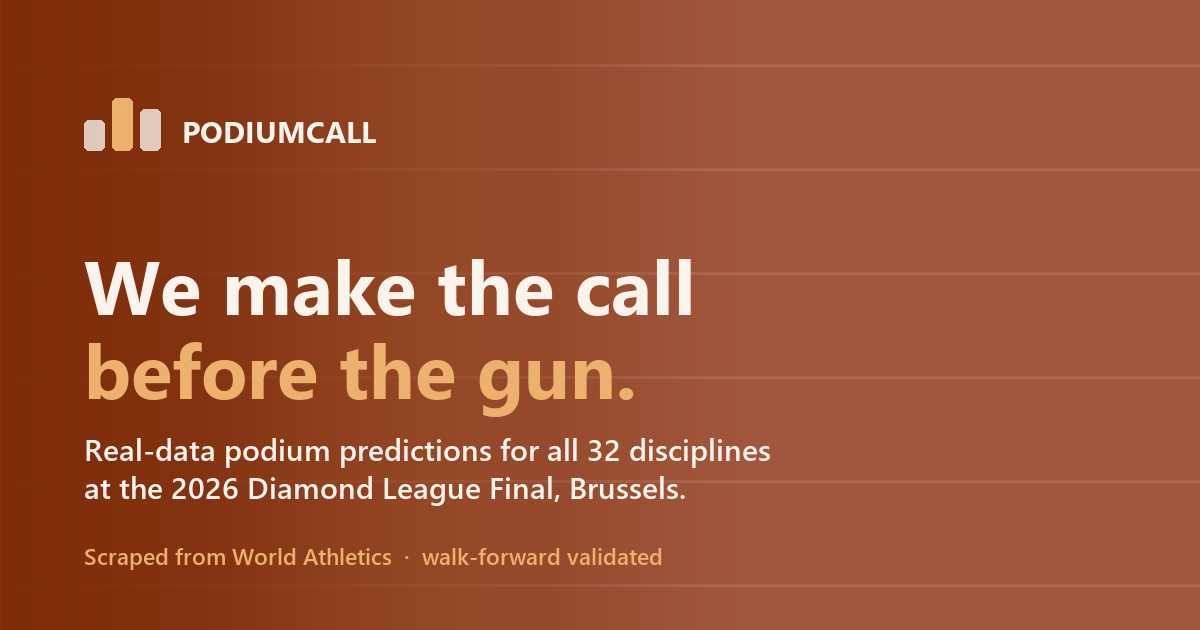
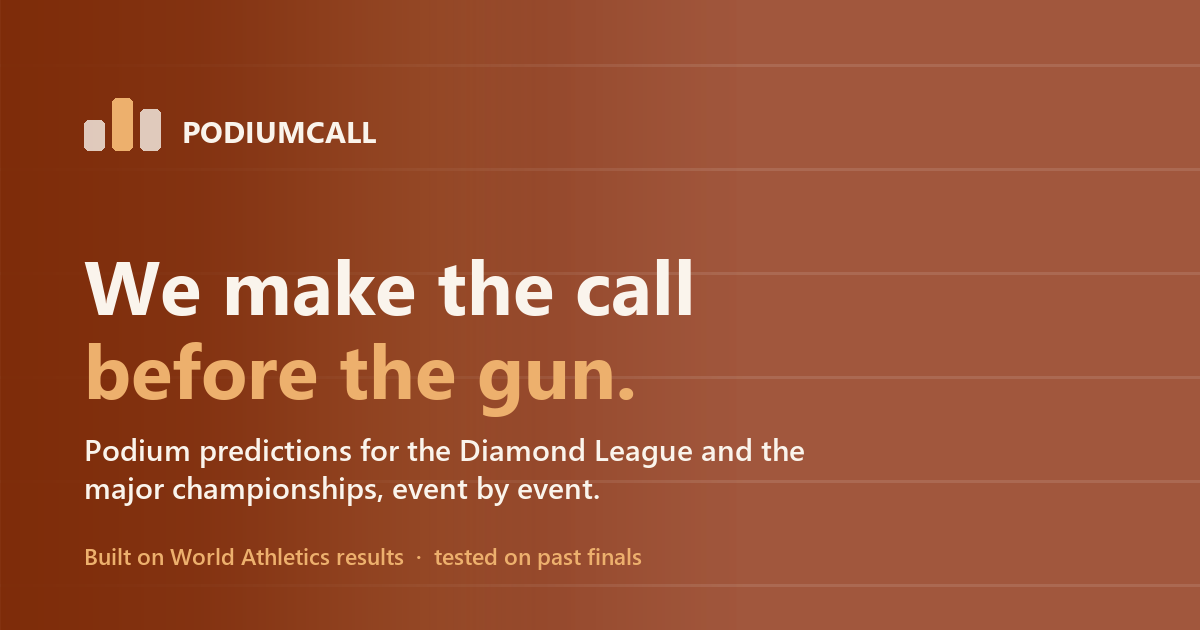
Give every page a canonical link and og:url, and make the share card, manifest and default description about the site
pageHead now takes the page's path and builds both tags from VITE_SITE_URL, which the live site already sets to www.podiumcall.cc. The tags had waited on a domain and were never added once there was one, so Google kept the vercel.app address it indexed first. The share card, the manifest, the root title and the structured data still described the 2026 Diamond League Final in Brussels; they now describe the site, and og:image is absolute.

Changed region(s): [[0.0617, 0.6937, 0.6783, 0.8143], [0.0617, 0.8746, 0.555, 0.9048]]

diff --git a/src/routes/__root.tsx b/src/routes/__root.tsx
@@ -12,7 +12,7 @@ import { useEffect, type ReactNode } from "react";
 import appCss from "../styles.css?url";
 import { JsonLd } from "@/components/dl/json-ld";
 import { Analytics } from "@vercel/analytics/react";
-import { websiteSchema } from "@/lib/seo";
+import { absoluteUrl, websiteSchema } from "@/lib/seo";
 import { reportLovableError } from "../lib/lovable-error-reporting";
 import { I18nProvider, useT } from "@/lib/i18n";
 
@@ -119,28 +119,30 @@ export const Route = createRootRouteWithContext<{ queryClient: QueryClient }>()(
         ? [{ name: "google-site-verification", content: GOOGLE_SITE_VERIFICATION }]
         : []),
       { name: "viewport", content: "width=device-width, initial-scale=1" },
-      { title: "PodiumCall — 2026 Diamond League Predictions" },
+      { title: "PodiumCall · Athletics podium predictions" },
       {
         name: "description",
         content:
-          "Real-data predictions for the 2026 Wanda Diamond League Final, trained on results scraped directly from World Athletics.",
+          "Podium predictions for the Diamond League and the major athletics championships, event by event, built on World Athletics results.",
       },
-      { property: "og:title", content: "PodiumCall — 2026 Diamond League Predictions" },
+      { property: "og:title", content: "PodiumCall · Athletics podium predictions" },
       {
         property: "og:description",
         content:
-          "Real-data predictions for the 2026 Wanda Diamond League Final, trained on results scraped directly from World Athletics.",
+          "Podium predictions for the Diamond League and the major athletics championships, event by event, built on World Athletics results.",
       },
       { property: "og:type", content: "website" },
       { name: "twitter:card", content: "summary_large_image" },
       // twitter:card promised a large image and none was ever set, so every
       // share rendered blank. Drawn from the app's own palette and lane
       // motif (scripts/make-og.py) rather than a stock graphic.
-      { property: "og:image", content: "/og.png" },
+      // Absolute when the origin is known: Facebook, LinkedIn and X read
+      // og:image as a full URL and can drop a relative one.
+      { property: "og:image", content: absoluteUrl("/og.png") ?? "/og.png" },
       { property: "og:image:width", content: "1200" },
       { property: "og:image:height", content: "630" },
-      { property: "og:image:alt", content: "PodiumCall — We make the call before the gun." },
-      { name: "twitter:image", content: "/og.png" },
+      { property: "og:image:alt", content: "PodiumCall: we make the call before the gun." },
+      { name: "twitter:image", content: absoluteUrl("/og.png") ?? "/og.png" },
       { property: "og:site_name", content: "PodiumCall" },
       // Colours the browser chrome (Android address bar, iOS PWA) to the
       // logo's dark ground rather than a default white.

diff --git a/src/lib/seo.ts b/src/lib/seo.ts
@@ -64,16 +64,34 @@ export const SUFFIX = "PodiumCall";
 /** One place that builds the tags, so title and og:title cannot drift apart
  * — the failure mode where a page looks right in a tab and wrong when
  * shared. */
-export function pageHead(title: string, description: string) {
+export function pageHead(title: string, description: string, path?: string) {
   const full = `${title} · ${SUFFIX}`;
+  const url = path === undefined ? undefined : absoluteUrl(path);
   return {
     meta: [
       { title: full },
       { name: "description", content: description },
       { property: "og:title", content: full },
       { property: "og:description", content: description },
+      ...(url ? [{ property: "og:url", content: url }] : []),
     ],
+    // The canonical link and og:url waited on a domain (see below) and were
+    // never added once there was one, so Google kept the vercel.app address it
+    // indexed first (found 2026-09-15). `path` carries no query string:
+    // /field?disc=men_HT is the /field page, which is what the sitemap lists.
+    links: url ? [{ rel: "canonical", href: url }] : [],
   };
+}
+
+/** One path segment encoded the way scripts/make-sitemap.py encodes it
+ * (Python's quote with safe=""), so a canonical link and the sitemap name an
+ * athlete page with the same bytes. encodeURIComponent alone leaves ! ' ( ) *
+ * as they are, and "Ja'Kobe THARP" would differ. */
+export function pathSegment(value: string): string {
+  return encodeURIComponent(value).replace(
+    /[!'()*]/g,
+    (c) => `%${c.charCodeAt(0).toString(16).toUpperCase()}`,
+  );
 }
 
 /* -- Structured data (JSON-LD) -------------------------------------------
@@ -116,7 +134,7 @@ export function websiteSchema(): JsonLdGraph {
     "@type": "WebSite",
     name: SUFFIX,
     description:
-      "Real-data podium predictions for the 2026 Wanda Diamond League Final, trained on results scraped from World Athletics.",
+      "Podium predictions for the Diamond League and the major athletics championships, event by event, built on World Athletics results.",
     inLanguage: "en",
     url: absoluteUrl("/"),
   };

diff --git a/src/routes/athlete.$discKey.$name.tsx b/src/routes/athlete.$discKey.$name.tsx
@@ -1,5 +1,5 @@
 import type { ReactNode } from "react";
-import { disciplineLabel, pageHead, titleName } from "@/lib/seo";
+import { disciplineLabel, pageHead, pathSegment, titleName } from "@/lib/seo";
 import { usePageTitle } from "@/lib/use-page-title";
 import { createFileRoute, Link, useCanGoBack, useRouter } from "@tanstack/react-router";
 import { Shell, Panel, PanelSkeleton, ErrorPanel, WatchBadge } from "@/components/dl/shell";
@@ -402,11 +402,13 @@ export const Route = createFileRoute("/athlete/$discKey/$name")({
   // caps convention still applies, so it is title-cased for the tab and the
   // search result the same way the dossier headline is.
   head: ({ params }) => {
-    const name = titleName(decodeURIComponent(params.name));
+    const raw = decodeURIComponent(params.name);
+    const name = titleName(raw);
     const label = disciplineLabel(params.discKey);
     return pageHead(
       `${name} — ${label}`,
-      `${name}'s ${label} form for the 2026 Diamond League Final: season and career bests, real per-meeting results, head-to-head record and World Athletics ranking.`,
+      `${name}'s ${label} this season: season and career bests, results meet by meet, head-to-head record and World Athletics ranking.`,
+      `/athlete/${params.discKey}/${pathSegment(raw)}`,
     );
   },
   component: AthleteProfilePage,

diff --git a/src/routes/discipline.$discKey.tsx b/src/routes/discipline.$discKey.tsx
@@ -23,7 +23,8 @@ export const Route = createFileRoute("/discipline/$discKey")({
       label,
       NO_FINAL_DISCIPLINES.has(params.discKey)
         ? `How level is the ${label} among the world's best this season, or is it one athlete and a gap? Field depth, season form and podium chances.`
-        : `Is the ${label} at the 2026 Diamond League Final a contest all the way down, or one athlete and a gap? Field depth, form and every head-to-head.`,
+        : `Is the ${label} a contest all the way down, or one athlete and a gap? Field depth, season form and every head-to-head.`,
+      `/discipline/${params.discKey}`,
     );
   },
   component: DisciplinePage,

diff --git a/src/routes/country.$code.tsx b/src/routes/country.$code.tsx
@@ -16,7 +16,9 @@ export const Route = createFileRoute("/country/$code")({
   head: ({ params }) =>
     pageHead(
       params.code.toUpperCase(),
-      `Every ranked athlete from ${params.code.toUpperCase()} this season, their marks, and their places at the World Athletics Ultimate Championship.`,
+      `Every ranked athlete from ${params.code.toUpperCase()} this season, with their marks and their events.`,
+      // Upper case, as every link on the site writes the code.
+      `/country/${params.code.toUpperCase()}`,
     ),
   component: CountryPage,
 });

diff --git a/src/routes/qualification.tsx b/src/routes/qualification.tsx
@@ -13,7 +13,8 @@ export const Route = createFileRoute("/qualification")({
   head: () =>
     pageHead(
       "Qualifying",
-      "Diamond League standings, the points cut for each discipline, and who makes the Final in Brussels.",
+      "Diamond League standings, the points cut for each discipline, and who made the Final in Brussels.",
+      "/qualification",
     ),
   // Same URL-as-state convention Track/Field use, so clicking into an
   // athlete and hitting Back restores the discipline you were reading.

diff --git a/src/routes/field.tsx b/src/routes/field.tsx
@@ -11,6 +11,7 @@ export const Route = createFileRoute("/field")({
     pageHead(
       "Field events",
       "The world's best in every field discipline, ranked by World Athletics points or by the model's rating for a championship final podium.",
+      "/field",
     ),
   validateSearch: (search: Record<string, unknown>): { disc?: string | undefined } => ({
     disc: typeof search["disc"] === "string" ? (search["disc"] as string) : undefined,

diff --git a/src/routes/track.tsx b/src/routes/track.tsx
@@ -11,6 +11,7 @@ export const Route = createFileRoute("/track")({
     pageHead(
       "Track events",
       "The world's best in every track discipline, ranked by World Athletics points or by the model's rating for a championship final podium.",
+      "/track",
     ),
   validateSearch: (search: Record<string, unknown>): { disc?: string | undefined } => ({
     disc: typeof search["disc"] === "string" ? (search["disc"] as string) : undefined,

diff --git a/src/routes/index.tsx b/src/routes/index.tsx
@@ -27,6 +27,7 @@ export const Route = createFileRoute("/")({
     pageHead(
       "The world's best, read by the model",
       "Real-data athletics rankings across 36 disciplines and podium predictions for 32, trained on results scraped from World Athletics. Plus a call on every event at the next major championship.",
+      "/",
     ),
   component: Landing,
 });

diff --git a/src/routes/championship.tsx b/src/routes/championship.tsx
@@ -15,6 +15,7 @@ export const Route = createFileRoute("/championship")({
     pageHead(
       "The championship we are calling",
       "The next major athletics championship: its field, how each event is called, and the call itself, made before the first session.",
+      "/championship",
     ),
   component: ChampionshipPage,
 });

diff --git a/src/routes/results.tsx b/src/routes/results.tsx
@@ -15,6 +15,7 @@ export const Route = createFileRoute("/results")({
     pageHead(
       "How the last predictions turned out",
       "Every championship the model called in advance, with the projection frozen before the meet and the result that followed.",
+      "/results",
     ),
   component: ResultsPage,
 });

diff --git a/src/routes/how-it-works.tsx b/src/routes/how-it-works.tsx
@@ -15,6 +15,7 @@ export const Route = createFileRoute("/how-it-works")({
     pageHead(
       "How it works",
       "How PodiumCall predicts the podium: what the model learns, how accurate it is, and where the data comes from.",
+      "/how-it-works",
     ),
   component: HowItWorksPage,
 });
